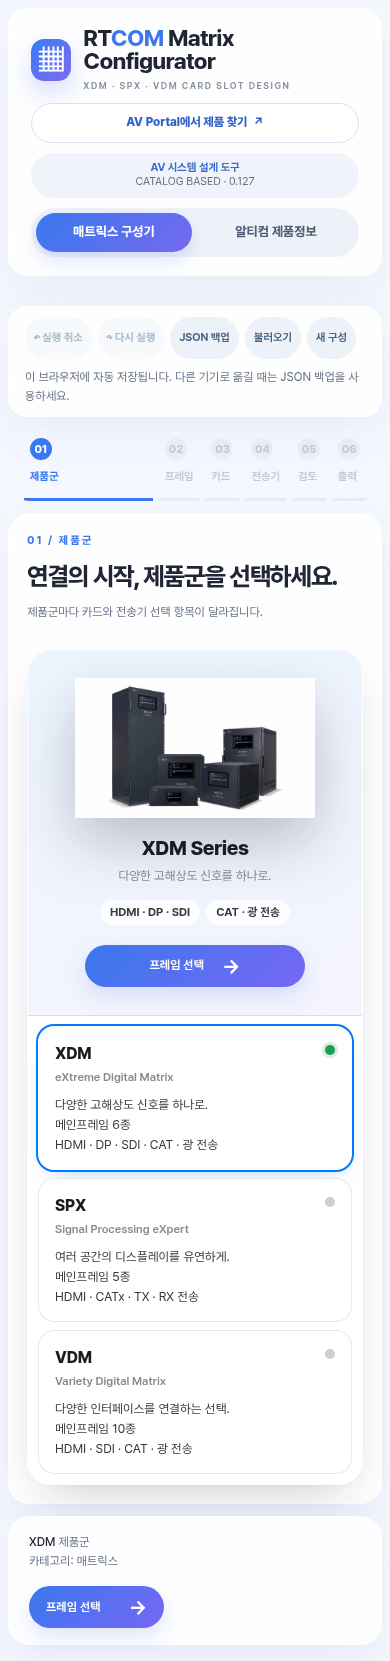
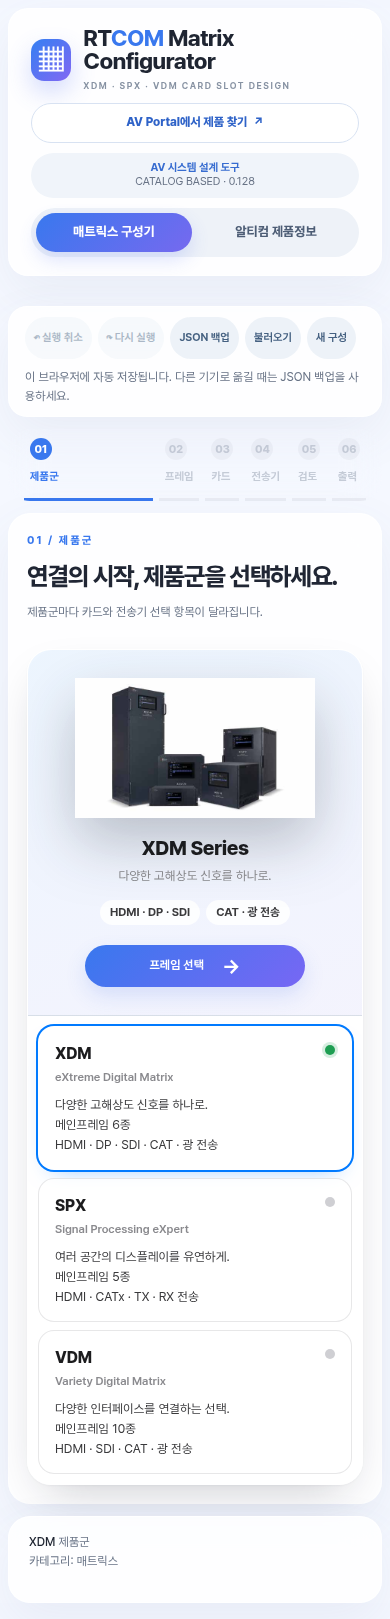
0.128.0: 01 제품군 프레임 선택 버튼 중복 제거
- 01 제품군에서만 아래 바 다음 버튼을 숨겨 미리보기 버튼 하나만 남김
- hidden 속성이 display:flex에 밀리지 않도록 규칙 추가
- e2e: 01 아래 바 버튼을 누르던 11곳을 미리보기 버튼으로 변경, 단일 버튼·02 화살표 색 검사

Claude-Session: https://claude.ai/code/session_01X4dTwEvCxXWf4rzmBjcGDt

diff --git a/index.html b/index.html
@@ -1,7 +1,7 @@
 <!doctype html>
 <html lang="ko"><head><meta charset="utf-8"><meta name="viewport" content="width=device-width,initial-scale=1"><title>RTCOM 매트릭스 구성기</title><meta name="description" content="RTCOM XDM, SPX, VDM 매트릭스 카드 슬롯 구성기와 알티컴 공개 제품정보"></head><body><div id="rtcom-design" aria-label="RTCOM 매트릭스 구성기">
   <link rel="stylesheet" href="src/styles.css">
-  <header class="rt-top"><a class="rt-brand-lockup" href="./"><span class="rt-brand-mark" aria-hidden="true">▦</span><span><span class="rt-brand">RT<span>COM</span> Matrix Configurator</span><span class="rt-brand-sub">XDM · SPX · VDM CARD SLOT DESIGN</span></span></a><nav class="rt-view-tabs" aria-label="화면 전환"><a data-view-tab="configurator" href="#matrix-configurator" aria-current="page">매트릭스 구성기</a><a data-view-tab="products" href="#products">알티컴 제품정보</a></nav><div class="rt-top-links"><a class="rt-portal-link" href="https://seoulav.github.io/AV-Portal/" target="_blank" rel="noopener">AV Portal에서 제품 찾기 <span aria-hidden="true">↗</span><span class="rt-visually-hidden">(새 창)</span></a><div class="rt-meta"><b>AV 시스템 설계 도구</b><br>CATALOG BASED · 0.127</div></div></header>
+  <header class="rt-top"><a class="rt-brand-lockup" href="./"><span class="rt-brand-mark" aria-hidden="true">▦</span><span><span class="rt-brand">RT<span>COM</span> Matrix Configurator</span><span class="rt-brand-sub">XDM · SPX · VDM CARD SLOT DESIGN</span></span></a><nav class="rt-view-tabs" aria-label="화면 전환"><a data-view-tab="configurator" href="#matrix-configurator" aria-current="page">매트릭스 구성기</a><a data-view-tab="products" href="#products">알티컴 제품정보</a></nav><div class="rt-top-links"><a class="rt-portal-link" href="https://seoulav.github.io/AV-Portal/" target="_blank" rel="noopener">AV Portal에서 제품 찾기 <span aria-hidden="true">↗</span><span class="rt-visually-hidden">(새 창)</span></a><div class="rt-meta"><b>AV 시스템 설계 도구</b><br>CATALOG BASED · 0.128</div></div></header>
   <section class="rt-configurator-view" aria-label="매트릭스 구성기">
     <div id="matrix-configurator" class="rt-configurator-anchor"><h1 class="rt-visually-hidden" tabindex="-1">매트릭스 구성기 — 프레임을 선택하고 실제 슬롯 위치에 입력·출력 카드를 장착해 구성합니다.</h1></div>
     <div class="rt-workspace"><div class="rt-tools"><button class="rt-button" data-tool="undo" disabled>↶ 실행 취소</button><button class="rt-button" data-tool="redo" disabled>↷ 다시 실행</button><button class="rt-button" data-tool="backup">JSON 백업</button><button class="rt-button" data-tool="import">불러오기</button><button class="rt-button" data-tool="reset">새 구성</button></div><p id="save-status" role="status" aria-live="polite">이 브라우저에 자동 저장됩니다.</p><input id="import-file" type="file" accept=".json,application/json" hidden></div><nav class="rt-nav" aria-label="구성 단계"></nav>

diff --git a/src/app.js b/src/app.js
@@ -376,6 +376,8 @@
       root.querySelector('.rt-summary').innerHTML=`<strong>${state.family}</strong>${state.model?' / '+state.model:' 제품군'}<br>${state.step>1?'카드 구성 검토 중':'카테고리: 매트릭스'}`;
       const next=root.querySelector('[data-action=next]');
       next.disabled=state.step===1&&!state.model;
+      // 0.128 01 제품군에서는 미리보기의 "프레임 선택" 버튼 하나만 둔다(사용자 지적 2026-09-29 "버튼이 중복이다"). 아래 바 다음 버튼은 02부터 나온다.
+      next.hidden=state.step===0;
       const nextLabels=['프레임 선택','카드 슬롯 구성','전송기 연결','구성 검토','출력 미리보기','처음으로'];
       // 03 카드 슬롯(2-3): 완성이면 "선택 완료 · 전송기 연결", 빈칸이 남으면 "빈칸 N개 남음 · 그래도 다음". 이동은 막지 않는다.
       let nextLabel=nextLabels[state.step];

diff --git a/src/styles.css b/src/styles.css
@@ -1058,3 +1058,6 @@ html{background:#f3f3ef}body{margin:0;padding:24px 16px;font-family:Arial,'Malgu
 /* 0.127 파란 "다음" 버튼(아래 바·미리보기)의 → 화살표: 예전에는 강조색(파랑)이라 파란 버튼 배경에 묻혀 보이지 않았다. 버튼 글자색(흰색)을 그대로 쓴다. */
 #rtcom-design .rt-button.rt-primary .rt-arrow{color:currentColor;font-size:20px;font-weight:700;line-height:1}
 #rtcom-design .rt-cg-preview .rt-cg-preview-next{display:inline-flex;gap:18px;justify-content:center}
+
+/* 0.128 hidden 속성이 있는 버튼은 display:flex 규칙(.rt-button.rt-primary)에 밀리지 않고 숨긴다. */
+#rtcom-design .rt-button[hidden]{display:none!important}

diff --git a/CLAUDE.md b/CLAUDE.md
@@ -50,7 +50,7 @@
 
 - 현재 화면 버전은 `index.html`의 우측 상단 표기와 `README.md`에 함께 기록합니다.
 - 원본 `main`에 기능 묶음을 병합할 때 마이너 버전을 올리고, 같은 커밋에서 `CHANGELOG.md`를 갱신합니다.
-- 구성기 단일 화면 전환은 `0.7.0`, Analog Way 방식 화면 개편은 `0.8.0`, 전송기 자동 연동은 `0.9.0`, HDMI 카드 PSE 쌍 연장은 `0.10.0`, SPX 매뉴얼 사진 슬롯은 `0.11.0`, VDM-256X 추가는 `0.12.0`, VDM 매뉴얼 후면 도면 슬롯은 `0.13.0`, 휴대폰 슬롯 겹침·뒤로가기 수정은 `0.14.0`, VDM 전면 도면은 `0.15.0`, 사진 슬롯 판넬 잘림 수정은 `0.16.0`, 장착 슬롯 번호표 숨김·구성 요약 카드 확대는 `0.17.0`, XDM 판넬 손나사 잘림 수정·VDM 전송기 연동·로고 홈 이동 확인은 `0.18.0`, 알티컴 공개 제품정보(29종) 재게시는 `0.19.0`, 제품정보 상세 표기를 에이앤미디어(antez.co.kr) 방식으로 정리한 것은 `0.20.0`, 데이터 기반 연결 다이어그램 추가는 `0.21.0`, 제품 사양 표를 구분·사양 2단으로 정리한 것은 `0.22.0`, 휴대폰 가로 스크롤(긴 출처 경로) 수정은 `0.23.0`, HD-14U·HD-18U 모델명 정정과 VDM CT102-U·FT102-U 계열 제외는 `0.24.0`, 제조사 카탈로그 원본 연결 다이어그램 적용은 `0.25.0`, 제품 사양 표 디자인(분류 색 점) 다듬기는 `0.26.0`, 새 카탈로그로 나머지 25종 재검증·XDM-CTR100 조합 다이어그램은 `0.27.0`, 연결 다이어그램 가로 스크롤 안내(그러데이션 표시)와 XDM-CTR100 케이블별 최대 전송거리(CI6522 80m) 추가는 `0.28.0`, VDM HOS4-U·HOS4S-UW 카드 설명을 스위칭 방식(일반·심리스)으로 정리하고 XDM-288을 구성기에서 삭제한 것은 `0.29.0`, XDM-CTR100 연결 다이어그램 조합 1을 매트릭스 카드 직결 배선으로 바로잡고 제조사 원본 다이어그램에 출처 캡션·표기 다름 경고를 추가하고 6개 제품과 SPX 다이어그램을 다시 잘라낸 것은 `0.30.0`, VDM 전송기 4종(CT101-U/CR101-U·CT103-U-H/CR103-U·FT101-U/FR101-U·FT103-U-H/FR103-U)에 RS-232 단자 행을 추가하고 이 4종과 CT104-U/CR104-U를 46쪽판과 재대조하고 27종 전체의 카탈로그 쪽 표기를 46쪽판 기준으로 통일한 것은 `0.31.0`, `docs/audit/PRODUCT_DIAGRAM_REVIEW_2026-09-27.md` §6 판단표대로 13개 제품의 검토 필요 항목을 정리해 REVIEW REQUIRED 배지를 없앤 것은 `0.32.0`, 제품정보 화면을 사용자 LED 구성기 계승 글래스 디자인으로 개편한 것(`docs/handoff/PRODUCT_GLASS_REDESIGN_SPEC.md` 6-A: 기반·HD-210U·XDM·VDM·SPX)은 `0.33.0`, 나머지 23종(분배기·일체형·전송기·케이블)에 lead·subtitle·portMap을 채우고 분배기·일체형 신호 흐름을 승인 시안 방식으로 바꾸고 QMS 화면 구성 모드(videoModes)를 추가한 것(6-B)은 `0.34.0`, HD-13U 상세에 전면 EDID 로터리 스위치 위치 표시와 EDID 코드표(edidSwitch, 사용자 제공 매뉴얼 근거)를 추가한 것은 `0.35.0`, HD-104U·HD-108U 모델명 표기를 0.24.0 정정 이전으로 되돌리고(사용자 확인 2026-09-27: 카탈로그 표기는 HD-104U·HD-108U이며 실크만 14U·18U로 변경 예정) HD-210U 전면 설정 스위치(딥 스위치·EDID 로터리) 추가와 신호 흐름 매트릭스 판정 복원을 함께 묶은 것은 `0.36.0`, 매트릭스 구성기 화면을 Analog Way 구조 + LED 글래스 스킨으로 개편하고 블랭크 커버(`placements`의 예약값 `"BLANK"`)로 슬롯 구성을 완성하는 기능을 추가한 것(`docs/handoff/CONFIGURATOR_AW_GLASS_SPEC.md`, 사용자 결정 2026-09-27)은 `0.37.0`, 0.37.0에서 시안과 다르게 남겨 둔 04 전송기 화면을 사용자 검토 후 좌우 분할 구조(01·02와 같은 틀)로 다시 지은 것(`docs/implementation/CONFIGURATOR_AW_GLASS.md` "04 전송기(편차 — 0.38.0에서 해소)")은 `0.38.0`, 제품 상세 "01 한눈에 보기" 위에 큰 사진 띠와 누르면 확대되는 돋보기(라이트박스)를 추가하고 화면에 보이는 제품 사양·주요 기능의 "up to" 표기를 "최대"로 통일하고 제품정보 "확인 사항" 118건을 2건으로 정리(HD-210U 크기 355mm 정정, `docs/audit/PRODUCT_ISSUES_ARCHIVE_2026-09-27.md`)한 것은 `0.39.0`, HD-13U "05 주요 기능"에 오디오 병합(믹스)·추출(디먹스) 동시 사용 안내(매뉴얼 7쪽 근거)를 추가한 것은 `0.40.0`, 분배기(HD-13U·HD-104U·HD-108U·HD-210U) EDID 로터리 코드표에서 자주 쓰는 1·7번을 강조하고 "02 신호 흐름"에 오디오 병합·추출(AUDIO OUT·"추출" 표시)을 추가한 것은 `0.41.0`, 사진 없이 입출력 표 카드로만 보이던 7종(HD-D102U·XDM-CTR100·전송기 5종)의 단자 지도를 HD-13U처럼 실제 제품 사진 기준으로 바꾸고 `portMap`이 송신기·수신기 사진 여러 장을 받게 한 것은 `0.42.0`, HDS-21U·HDS-42MU에 EDID 로터리(edidSwitch)를 추가하고 오디오 병합 설명을 "HDMI OUTPUT에 실리는 오디오" 기준으로 정정하고 분배기·선택기 필터를 HDMI 출력 개수 순으로 정렬하고 XDM-CTR100 "02 신호 흐름" 케이블 최대 전송거리 표기를 다이어그램 하단 한쪽으로 모은 것은 `0.43.0`, 분배기·선택기 필터 정렬을 분배기(Splitter)가 먼저 나오고 셀렉터(Switcher)가 나중에 나오도록(같은 종류 안에서는 HDMI 출력 개수 순) 바꾼 것은 `0.44.0`, 사용자 제공 매뉴얼 3권으로 벽부형 XDM-CT103·CT103-U-H/CR103-U·FT103-U-H/FR103-U의 단자 지도·사양·EDID 표를 보완하고 단자 지도에 세로 괄호·표시 폭·안내 줄을 추가한 것은 `0.45.0`, XDM-CTR100 PSE 제품 안내서와 XDM-CTR100 매뉴얼 Ver.1.4로 CTR100 단자 역할(HDMI IN·OUT, 5핀 오디오 출력, 상태 LED)·딥 스위치 설정·PSE 크기·전원을 보완한 것은 `0.46.0`, 옛 PR #22에만 있던 사용자 결정(XDM-CTR100과 XDM-CTR100 PSE를 별도 제품으로 분리해 28종, QMS-88UX 쿼드 뷰 출력 9·10번 사용법, 모델명 줄바꿈 방지)을 현재 main 기준으로 다시 옮기고 HD-13U 오디오 병합·추출을 선택 방식으로 정정해 07 오디오 설정 카드를 추가하고 모든 제품의 단자 지도 번호를 HDMI 입력 → 출력 → 오디오 → … → 전원(마지막) 순으로 통일한 것은 `0.47.0`, QMS-88UX 출력 9·10번 멀티뷰의 12가지 레이아웃·입력 그룹·출력 옵션을 사용자 제공 매뉴얼 20~23쪽 근거로 "주요 기능"에 적은 것은 `0.48.0`, HDS-21U·HDS-42MU 오디오 병합·추출을 딥 스위치 1번 선택 방식으로 정정하고 07 오디오 설정 카드를 추가하고 사용자 제공 매뉴얼 Ver.1.0으로 Priority·분배 기능 딥 스위치를 보완하고 제품 사진 팝업을 사용자 LED 계산기 "05 프로세서" 방식(사진 탭·원형 돋보기)으로 바꾼 것은 `0.49.0`, QMS-88UX "02 신호 흐름"에서 멀티뷰 출력 9·10번을 매트릭스 출력과 분리된 별도 갈래(패널·캡션)로 다시 그리고 "05 주요 기능" 멀티뷰 항목을 요약하고 오디오 출력 2개(QD1·QD2)가 선택 가능한 출력임을 반영한 것은 `0.50.0`, QMS-88UX "04 제품 사양"의 조건 칸(부설)을 모두 비우고 LAN(Telnet & Web Browser) 표기를 사양·기능·개요·단자 지도에서 모두 뺀 것은 `0.51.0`, HDS-42MU 크기를 사용자 결정에 따라 매뉴얼 값 232×65×30mm로 바꾸고 제품 상세의 "자료 출처·검토 기록"을 "제조사 자료"로 이름을 바꿔 화면의 출처 표시를 뺀 것은 `0.52.0`, QMS-88UX 오디오 QD1·QD2 설명 정리·"02 신호 흐름" 오디오 추출 점선과 멀티뷰 8입력분할 표현 정리·입출력 단자 표 정렬 통일(TX→구분 없음→RX, 영상→오디오→전송→제어, 입력→출력→양방향)·"제조사 자료"에서 표기 다름·참고 사항도 추가로 뺀 것과 조건 칸의 출처 문구를 지우고 "05 주요 기능"을 한 줄 요약으로 줄인 것(상세는 06·07 카드·사양·단자 지도로 이동)은 `0.53.0`, XDM-CTR100·CTR100 PSE "04 제품 사양"의 딥 스위치 행을 다시 삭제(딥 스위치는 05 주요 기능에서만 안내)하고 전 제품 "05 주요 기능"을 추가로 압축하고 매트릭스 COS/CIS/FIS/FOS 카드와 짝인 전송기 3종(XDM-CTR100·CTR100 PSE·FT101/FR101)에 RS-232+ 패스스루(AMX 등 통합 제어 신호를 매트릭스·전송기 너머로 전달) 안내를 추가하고 "02 신호 흐름"의 케이블 최대 전송거리 표기를 범례 "출력" 항목 오른쪽으로 옮긴 것은 `0.54.0`, 구성기 확인 창을 사이트 글래스 스타일 대화상자로 바꾸고 카드 팝업에 수량 채우기와 같은 방향 슬롯 이동(끌어 옮기기·팝업 이동)을 추가하고 XDM 세로 슬롯 카드를 180도 돌리고 2U 이상만 정면·후면 버튼(그보다 작으면 정면 사진과 포트 연결면을 함께 표시)으로 하고 구성기 작업 단계 표기를 한글로 바꾸고 Delete 키 카드 빼기와 XDM RS-232+(CIS·COS·FIS·FOS 카드와 짝 전송기) 표기를 더한 것은 `0.55.0`, 전 제품 "05 주요 기능" 카탈로그 어투 통일("~ 지원")·"01 한눈에 보기" 위 사진 띠 삭제·"02 신호 흐름"과 "03 단자 지도" 순서 교체 및 영문 표기(Signal Flow·Port Map)·화면 구성 모드 등 06 카드를 05 옆으로 배치·QMS-88UX 06 화면 구성 모드 레이아웃 12종 클릭 미리보기 추가·HDS-21U·HDS-42MU 단자 지도를 정면·후면 선택 버튼 없이 위아래 합성 사진 한 장(번호 1~7, EDID 로터리 6번·전원 7번)으로 바꾼 것은 `0.56.0`, 05 옆으로 옮긴 06 카드가 휴대폰에서 01보다 먼저 뜨던 순서 버그를 고치고(rt-pg-col-mobile-6 클래스 추가) 15개 제품 "05 주요 기능"의 "~할 수 있다." 표현 24곳을 명사형으로 정리한 것은 `0.57.0`, HDS-21U·HDS-42MU 단자 지도에 MODE 딥 스위치 번호(7번)를 추가하고 07 오디오 설정 카드를 딥 스위치 그림(번호별 OFF·ON) 카드인 07 딥 스위치 설정으로 바꾸고(1번 오디오 병합·추출, 2번 Priority, 42MU만 3번 분배) 04 제품 사양의 딥 스위치 행과 05 주요 기능의 긴 설명을 이 카드로 옮기고 매트릭스 제품(QMS-44UX·QMS-88UX·HDS-42MU) "03 Signal Flow"를 입력이 한 점으로 모이는 모양 대신 크로스포인트(출력마다 입력 선택 예시)로 다시 그리고 HDS-42MU 정면 사진의 잘못 인쇄된 실크(MODE·EDID)를 사진 안에서 서로 바꾼 것은 `0.58.0`, EDID 로터리 태그 잘림·06 EDID 카드 배치·긴 코드표 좌우 분할을 고치고 EDID 설정 카드에 기본값·자주 쓰는 코드를 파란 16단 로터리 그림(화살표가 코드를 가리킴)으로 보여주고 HDS-21U·HDS-42MU(3·9번)·FT103-U-H/FR103-U(3·6번)에 자주 쓰는 코드 강조를 더하고 EDID 코드표 세로 크기를 줄인 것은 `0.59.0`, 04 제품 사양 표 줄 간격을 약 15% 줄이고 03 Signal Flow에서 AUDIO OUT "추출" 표시가 잘리던 그림 너비 계산을 고친 것은 `0.60.0`, HD-13U 07 오디오 설정을 06 EDID 다음 전체 폭으로 옮겨 잘림·번호 뒤집힘을 고치고 EDID 대표 설정과 같은 칸 4개(MODE 로터리 0번 → SET 누름 → OUT 1 LED 깜빡임·깜빡이지 않음)를 넣고 HD-210U에 매뉴얼 Ver.1.2 근거 07 딥 스위치 설정 카드(1번 오디오 병합, 2번 DDC)를 추가한 것은 `0.61.0`, 딥 스위치 카드가 있는 HD-210U·HDS-21U·HDS-42MU의 05 주요 기능에서 스위치 번호 참조를 지우고 HD-210U(5줄)·HD-13U(3줄) 05 주요 기능을 기능 이름만 남겨 정리하고 HDS-21U·HDS-42MU 딥 스위치 칸을 ON → OFF 순서로 바꾼 것은 `0.62.0`, QMS-44UX·QMS-88UX "06 화면 구성 모드" 카드가 05 옆 좁은 칸에 들어가면서 모드 카드 설명·레이아웃 칩이 카드 밖으로 넘치던 문제를 edidSwitch와 같은 기준(항상 전체 폭 아래)으로 고친 것은 `0.63.0`, SPX-TX/RX 전송기를 29번째 제품으로 추가(매뉴얼 Ver.2.0: 사양·단자 지도·딥 스위치 조합)하고 XDM-FT101/FR101에 매뉴얼 Ver.1.3 근거 EDID·오디오 로터리 카드(전체 8칸 그림)를 넣고 SPX 안내·범례의 HDBaseT 표기를 CATx로 바로잡고 OBUX-1C에 매뉴얼 Ver.2.2 근거 Tx Mode 딥 스위치 카드(1번 오디오, 2·3·4번 EDID 조합)를 넣고 전 제품 05 주요 기능의 "~한다/~다." 문장을 "~ 지원"·명사형으로 통일한 것은 `0.64.0`, OBHD-2C에 매뉴얼 KV01 근거 06 EDID 설정(MODE 로터리 0~D 전체 14칸 그림·코드표)을 추가하고 XDM-CT103/CR103 04 제품 사양의 전원(어댑터) 중복 행(CT103·CR103 각각 있던 동일 값)을 공통 행 하나로 합친 것은 `0.65.0`, XDM-CTR100·XDM-CTR100 PSE에 매뉴얼 Ver.1.4 근거 06 딥 스위치 설정(1·2번 TX/RX 모드 조합, 3번 전송 거리)을 추가하고 두 제품이 별도 페이지로 나뉜 뒤에도 남아 있던 04 제품 사양의 "공통"·자기 모델명 반복 표기를 정리하고 04 사양 "지원 케이블"을 "권장 케이블"로 바꾸고 분배기 4종(HD-13U·HD-104U·HD-108U·HD-210U) 단자 지도를 앞면·뒷면 합성 사진 한 장으로 바꿔 정면 로터리(·SET·MODE)에도 번호를 붙인 것은 `0.66.0`, QMS-88UX 06 화면 구성 모드 QUAD 레이아웃 목록에 매뉴얼 22~23쪽 Output Option 2·3 근거로 "8분할(비율무시)"을 13번째 항목으로 추가하고 분배기 4종(HD-13U·HD-104U·HD-108U·HD-210U) 05 주요 기능에 다단 증폭(캐스케이드 연결) 최대 3단 지원을 추가한 것은 `0.67.0`, XDM-FT101/FR101 단자 지도에 정면 MODE 로터리·S/P 번호를 추가하고 HD-D102U 05 주요 기능을 명사형으로 전면 재작성하고 HDS-21U·HDS-42MU "Audio Extraction"과 HD-210U EDID "Nothing" 표기를 통일하고 HDS-21U 딥 스위치 3번(분배)이 매뉴얼에 없는 기능이었음을 사용자 제공 매뉴얼로 확인해 삭제한 것은 `0.68.0`, HDS-21U·HDS-42MU 06 EDID 설정 안내 문장에서 "10번=A, 11번=B"처럼 10진수를 다시 설명하던 괄호를 완전히 지운 것은 `0.69.0`, 구성기 "섀시"를 "프레임"으로 통일하고 카드 팝업에 수량·순서대로 장착 버튼을 넣고 02 프레임 선택에 "함께 보면 좋은 제품"을 추가하고 빈 슬롯 공패널색을 통일하고 OBHD-2C EDID 로터리 번호를 매뉴얼 Ver.2.1 기준으로 정정하고 HD-D102U "스마트 EDID" 문구를 알기 쉽게 풀어 쓰고 HD-13U·XDM-CTR100 PSE "인증: KC 인증" 행을 삭제하고 HD-D102U 04 사양표를 HD-13U와 같은 구성으로 정리한 것은 `0.70.0`, OBHD-2C 04 제품 사양의 크기·무게·HDMI 규격을 사용자 결정에 따라 매뉴얼 Ver.2.1 값(128×89×25mm·0.36kg·HDMI 1.3)으로 바꾼 것은 `0.71.0`, OBHD-2C·OBUX-1C 04 제품 사양의 입력단자·출력단자(HDMI(female) 등 표기) 행을 삭제하고 전 제품(16종)의 mm/kg 옆 인치·lbs 병기를 지운 것은 `0.72.0`, XDM-PSU 전원 장치를 반영해 BOM의 임시 "전원 공급 장비"를 XDM-PSU(16칸당 1대)·XDM-POH(CTR100 Tx 1대당 1개)·XDM-PHX(COS100 1장당 1개)로 나누고 XDM-PSU를 30번째 제품으로 추가하고, HDS-21U·OBUX-1C 송신기·수신기 고해상도 실물 사진을 반영하고, CT103-U-H/CR103-U 04 제품 사양을 요약 형태로 정리한 것은 `0.73.0`, QMS-44UX 전면·후면 사진을 사용자가 직접 촬영한 고화질 사진으로 바꾸고 03 단자 지도 좌표를 재보정하고 새 사진에서 확인된 DOWNLOAD(Mini-USB) 포트를 추가한 것은 `0.74.0`, HD-108U 전면·후면 사진을 제조사에서 입수한 고화질 사진으로 바꾸고 03 단자 지도와 06 EDID 설정 로터리 스위치 좌표를 재보정한 것은 `0.75.0`, HDS-42MU 전면·후면 사진을 고화질로 바꾸고 단자 지도·EDID 좌표를 재보정한 것은 `0.76.0`, HD-13U·SPX-M810 전면·후면 사진을 고해상도로 바꾸고 HD-13U 단자 지도·EDID 좌표와 SPX-M810 구성기 카드 슬롯 좌표를 재측정한 것은 `0.77.0`, 사용자가 제공한 HD-104U 고해상도 전면·후면 사진(긴 변 약 2000px)으로 기존 저해상도 이미지를 교체하고 단자 지도·EDID 로터리 스위치 좌표를 새 사진 기준으로 다시 측정한 것은 `0.78.0`, 제품 상세에 등록된 제조사 카탈로그·매뉴얼 PDF만 "제품 목록" 옆 버튼(새 탭 보기·내려받기)으로 보여 주는 구조를 추가한 것은 `0.79.0`, 매트릭스 카드 상세 정보 버튼과 XDM·SPX·VDM 카드 26종 사양을 등록한 것은 `0.80.0`, 로컬 작업 환경(`DEVICE_WORKFLOW.md`, `.gitattributes`, `.claude/settings.json`)과 `input_doc` 자료 자동 분류(`.claude/skills/input-doc`, `scripts/input_doc.py`)를 추가한 것은 `0.81.0`, 제조사 자료 입출력 단자 표에서 방향("입력"·"출력"·"입출력")·수량(숫자) 칸이 좁은 화면에서 줄바꿈되던 문제를 30개 제품 전수 조사로 찾아 고친 것은 `0.82.0`, 제목에 송신기·수신기가 들어간 제품 10종의 라벨을 색으로 구분한 것은 `0.83.0`, input_doc 첫 정리(매뉴얼 20권·사양서 1장)로 VDM HOS4-U 카드 사양을 등록하고 CIS4-U·COS4-U·QOS4S-U를 매뉴얼 KV07 값으로 보완하고 input_doc 반영 장부(`docs/evidence/input-doc-ledger.json`)와 파일별 반영 표시(`input_doc/STATUS.md`)를 추가하고 검증된 PR의 병합·배포를 Claude가 이어서 하도록 규칙을 바꾼 것은 `0.84.0`, 카탈로그·매뉴얼 충돌 정리(`docs/audit/CATALOG_MANUAL_CONFLICTS_2026-09-28.md`) 결정대로 VDM -U 카드에 매뉴얼 해상도 행·SOS4 오디오 포트를 더하고 QMS-88UX 멀티뷰에 8분할(16:9 비율)을 추가한 것은 `0.85.0`, 카탈로그·매뉴얼 충돌 항목을 사용자 결정("새로준 자료 기준으로")에 따라 매뉴얼 값으로 통일한 것(HD-104U 전원 1A, XDM 전송기 3840x2160, VDM 광 카드 10km·-U 카드 4096×2160·HOS4S-UW 1920×1080)은 `0.86.0`, RT컴 제공 고해상도 실물 사진으로 XDM-CTR100·XDM-FT101·XDM-FR101·XDM-CT103 제품 사진·목록 카드·구성기 04 전송기 썸네일을 교체하고 CTR100·FT101·CT103 단자 지도를 새 사진으로 다시 합성하고 XDM-FR101 수신기 뒷면 단자 지도를 추가한 것은 `0.87.0`, 사용자 결정("1번")으로 input_doc 매뉴얼 17개를 공개 폴더에 올려 16개 제품 상세에 매뉴얼 PDF 버튼을 켠 것은 `0.88.0`, 사용자 확인("ctr100과 pse는 단자는 동일해")에 따라 XDM-CTR100·XDM-CTR100 PSE 단자 지도를 같은 합성 사진(앞면 PSE 제품 안내서 사진 + 뒷면 RT컴 CTR100 사진)으로 바꾼 것은 `0.89.0`, QMS-88UX 06 화면 구성 모드의 DUAL 카드("듀얼 모드" 한 마디뿐)를 매뉴얼 KV.04 20~21쪽 근거로 출력 9·10번 멀티뷰 설정의 2분할(PBP)·PIP 레이아웃 3종으로 채운 것은 `0.90.0`, XDM-CTR100 PSE 정면 사진을 사용자가 재확인("1번 맞아"·"적용시켜줘")한 원본 PNG에서 정확한 픽셀 경계로 다시 잘라 646×396으로 다시 저장한 것은 `0.91.0`, SPX-TX/SPX-RX 단자 지도 사진의 검은 배경을 흰색으로 바꾸고(사용자 요청) 전송기 6개 제품 사양의 ft(피트) 표기를 일괄 삭제한 것은 `0.92.0`, 전송기 9종 04 제품 사양 조건 칸의 "모델A·모델B 공통" 표기 55곳을 일괄 삭제하고 XDM-PSU에 "03 Signal Flow"(POH 입력 경로·PHX 출력 경로, 주황 전원 선) 그림을 추가한 것은 `0.93.0`, XDM-CTR100·XDM-CTR100 PSE 04 제품 사양의 최대 전송거리 3행을 1행으로 합치고 권장 케이블 행을 지우고 PSE 목록 썸네일을 정면 사진으로 바꾼 것은 `0.94.0`, 전체 카탈로그 46쪽판을 공용 파일(`rtcom-catalog-2026.pdf`) 하나로 공개해 29개 제품 상세의 카탈로그 PDF 버튼이 제품 쪽(`#page=N`)에서 열리고 제품 목록에 전체 카탈로그 버튼을 둔 것(사용자 결정 2026-09-28 "전체 카탈로그 공개해도 돼")은 `0.95.0`, QMS-88UX 06 화면 구성 모드의 QUAD·DUAL 설명 문장을 짧게 줄이고 매뉴얼 쪽 번호를 화면에 안 보이는 `page` 항목으로 옮기고 QMS-44UX QUAD 설명도 두 줄로 나눠 줄인 것(사용자 요청 "QMS-44, 88 모두 글이 너무 많아 좀 더 요약해줘")은 `0.96.0`, 전체 카탈로그 46쪽판에서 제품마다 해당 쪽만 뽑은 제품별 카탈로그 PDF 29개(`<제품id>-catalog.pdf`, XDM은 전송기 쪽을 뺀 4~9쪽, SPX-TX/RX는 16쪽)를 만들어 제품 상세 카탈로그 버튼에 연결한 것(사용자 결정 2026-09-28 "제품별로 잘라 공개")은 `0.97.0`, XDM-PSU "03 Signal Flow"를 제조사 연결도처럼 매트릭스 프레임(CIS100·COS100)·XDM-PSU(POH·PHX)·XDM-CTR100 Tx/Rx 장비 그림으로 다시 그리고 케이블을 따라 신호·전원이 흐르는 애니메이션을 넣은 것(사용자 요청 2026-09-28)은 `0.98.0`, 그 그림의 XDM-COS100을 포트마다 RJ45+피닉스 5핀으로 고쳐 PHX 2핀 전원선이 1번 포트 피닉스 단자에 꽂히게 하고(사용자 확인 "COS PHNIX픽에 전원연결") XDM-PSU Signal Flow에만 "크게 보기" 확대 창(100~300%)을 넣은 것은 `0.99.0`, QMS-88UX "8분할(16:9 비율)" 미리보기가 매뉴얼(KV.04 23쪽)처럼 위·아래 여백을 짙은 막대로 보여주게 고친 것(사용자 지적 "8분할시 비율유지는 안되는거 같은")은 `0.100.0`, 구성기 카드 팝업 "카드별 수량" 스테퍼가 다 채운 뒤 사라지던 버그를 고친 것은 `0.101.0`, OBHD-2C 단자 지도 사진 3장의 검은 배경을 흰색으로 바꾼 것(사용자 요청 2026-09-28 "OBHD-2C 이미지 너가 블랙을 뺄수 있을까?")은 `0.102.0`, XDM-CTR100과 동등 사양인 XDM-CT103/CR103의 "권장 케이블"을 "CAT6a, CAT7"에서 "CAT6A S/FTP 이상(UTP 사용 불가)"으로 정정하고 XDM-CIS100·COS100 카드 소개 문구도 맞춘 것은 `0.103.0`, XDM-CTR100 PSE 크기 표기를 사용자 제공 스펙표 근거로 "107.4[127.4]×88×30.1mm"(본체[브래킷 포함])로 QMS-88UX와 같은 표기 관례로 바꾼 것은 `0.104.0`, XDM-PSU 머리 아이콘을 전원(번개) 모양으로 바꾸고 02 Port Map 앞면·뒷면을 03 Signal Flow와 같은 평면 그림(`scripts/tools/draw_xdm_psu_panels.cjs`, 제조사 도면 배치)으로 다시 만든 것(사용자 요청 2026-09-28)은 `0.105.0`, XDM-PSU 03 Signal Flow의 COS100 전원선 길이·배치를 조정하고 확대 창 범례 누락을 고친 것은 `0.106.0`, OBHD-2C 사진 3장에서 원본부터 깨져 있던 실크 글자(송신기 PWR의 R·EDID S/W의 D 두 개, 수신기 AUDIO의 D)를 같은 사진의 온전한 글자로 복원한 것은 `0.107.0`, HD-13U 제품 상세 카탈로그 PDF 버튼을 새 탭 대신 화면 안 팝업(iframe)으로 여는 샘플을 적용하고(사용자 요청 2026-09-28 "카달로그는 팝업형태 보이면 어때? 1장짜리라서 파일다운받아서 다시 열기 불편해", "샘플로 HD-13U만 적용해줘"), 카드 선택 팝업의 "순서대로 장착"·"닫기" 버튼을 "장착" 하나로 합치고 "다른 출력 슬롯으로 이동" 드롭다운을 없애고(사용자 요청 "내가 직접 드래그 이동이 가능하니까"), XDM-HOS100 "정사분할" 표기를 "최대 4분할"로 통일하고, XDM-CTR100·XDM-CTR100 PSE "최대 전송거리" 조건 문구를 "*S/FTP CAT6A 필수"로 단순화한 것은 `0.108.0`, QMS-88UX "03 Signal Flow" 멀티뷰 출력 9·10번 캡션을 "9·10번 각 4분할 · 합쳐서 최대 8입력"에서 "9·10번 각 4분할 또는 8분할"로 바로잡은 것(사용자 지적)은 `0.109.0`, XDM 연결 전송기 4종(XDM-CTR100·XDM-CTR100 PSE·XDM-CT103/CR103·XDM-FT101/FR101)의 04 제품 사양 최대 해상도 표기를 `4K60Hz`(4:4:4)로 통일하고 XDM-FT101/FR101의 4096x2160 표기를 개요·주요 기능·사양에서 모두 뺀 것(사용자 결정 2026-09-28 "4종 4K60(4:4:4) 형식으로 통일", "4096은 잘 사용하지 않아서 모든 양식에서 빼자")은 `0.110.0`, 실물 사진이 없는 VDM 프레임 전면 7종·후면 8종을 VDM-16X 실물 사진과 같은 검은 몸체의 평면 그림(`scripts/tools/draw_vdm_frames.cjs`, 매뉴얼 KV07 도면 배치)으로 바꾼 것은 `0.111.0`, HD-13U 카탈로그 팝업을 iframe 대신 저장소에 넣은 PDF.js(`src/vendor/pdfjs/`, Apache 2.0)로 그려 PDF 보기 기능이 없는 휴대폰·인앱 브라우저에서도 다운로드 없이 바로 보이게 한 것(사용자 결정 2026-09-28 "PDF.js로 HD-13U 적용해줘")은 `0.112.0`, 구성기 후면(03 카드 슬롯) XDM 6종(후면 사진이 없던 XDM-216 포함)·SPX 5종 프레임을 VDM과 같은 평면 그림(`scripts/tools/draw_xdm_spx_rear_frames.cjs`)으로 바꾼 것은 `0.113.0`, 02 프레임 선택 미리보기 캡션 아래에 "다음 · 카드 슬롯 구성" 버튼을 넣은 것은 `0.114.0`, 카드 선택 팝업 아래 줄의 "슬롯 비우기(Del)"를 왼쪽·"장착"을 오른쪽으로 바꾼 것은 `0.115.0`, 02 프레임 선택 미리보기에 정면·후면을 함께 보여 주고(위아래·좌우, 후면 세로/가로 비율 2 초과인 XDM-144·216, VDM-80X·128X·180X만 정면/후면 버튼) 휴대폰 미리보기 높이 제한을 없앤 것은 `0.116.0`, 03 카드 선택 팝업에서 카드마다 연동 전송기(칩)를 골라 장착과 함께 연결하게 한 것(02·04는 그대로)은 `0.117.0`, 카드 선택 팝업 연동 전송기에 카드 1장당 수량 조절기를 더해 연결 수량과 물량 산출서(BOM)에 반영한 것은 `0.118.0`, VDM-16X 후면(카드가 꽂힌 실물 사진)을 빈 슬롯 평면 그림으로 바꿔 후면 20종을 모두 그림으로 맞춘 것은 `0.119.0`, VDM 카드 사진(HOS4S-UW·CIS4-U·COS4-U)과 VDM 프레임 그림 슬롯 칸을 모두 5.7:1로 맞춰 카드가 칸에 정확히 들어가게 한 것은 `0.120.0`, HD-D102U를 최대 12대 장착하는 19인치 랙 프레임 "HD-D102U Rack마운트"를 사용자 제공 도면으로 31번째 제품(정면·윗면·옆면 그림, HD-D102U와 서로 관련 제품)으로 추가한 것은 `0.121.0`, 그 제품 상세에 사용자 제공 도면 한 장(윗면·정면·옆면·치수)을 다시 그린 "06 도면" 카드(`drawing` 항목)를 추가한 것은 `0.122.0`, 사용자 요청("실도면은하지말고 그래픽이미지만")으로 그 도면 카드와 치수 그림을 지우고 그래픽 이미지(정면·윗면·옆면)만 남긴 것은 `0.123.0`, 제품별 카탈로그 29종은 미리 그린 쪽 그림 팝업, 매뉴얼 17종은 보이는 쪽만 그리는 PDF.js 팝업으로 넓힌 것(사용자 결정 2026-09-28 "전체 제품으로 넓혀서 올리기")은 `0.124.0`, 제품정보 목록에서 매트릭스 시리즈를 XDM → SPX → VDM 순서로 바꿔 XDM이 맨 앞에 나오게 한 것(사용자 요청 "제품정보 XDM이 처음으로 나오게해")은 `0.125.0`, PC 문서 팝업(카탈로그·매뉴얼) 기본 폭을 720px에서 1040px로 넓히고 좌우 가장자리를 마우스로 끌어 폭을 바꾸고(이 브라우저에 기억, 두 번 누르면 기본 폭) "넓게" 버튼으로 화면 폭까지 펼치며 폭이 바뀌면 쪽을 다시 맞추게 한 것(사용자 요청 2026-09-28 "팝업창의 가로폭이 너무 좁아", "마우스로 창 크기 가변가능할까?")은 `0.126.0`, 01 제품군 미리보기 태그 줄 아래에 "프레임 선택" 버튼을 넣고(02 프레임 선택과 같은 방식) 파란 "다음" 버튼의 → 화살표가 파란 배경에 묻히던 색을 버튼 글자색(흰색)으로 고친 것(사용자 요청 2026-09-28 "이것도 버튼 위로 배치하고 오른쪽 화살표도 보이게")은 `0.127.0`으로 기록했습니다. 다음 기능 묶음은 `0.128.0`을 목표로 하며, 실제 병합 전에는 검증된 canonical main commit을 확인합니다.
+- 구성기 단일 화면 전환은 `0.7.0`, Analog Way 방식 화면 개편은 `0.8.0`, 전송기 자동 연동은 `0.9.0`, HDMI 카드 PSE 쌍 연장은 `0.10.0`, SPX 매뉴얼 사진 슬롯은 `0.11.0`, VDM-256X 추가는 `0.12.0`, VDM 매뉴얼 후면 도면 슬롯은 `0.13.0`, 휴대폰 슬롯 겹침·뒤로가기 수정은 `0.14.0`, VDM 전면 도면은 `0.15.0`, 사진 슬롯 판넬 잘림 수정은 `0.16.0`, 장착 슬롯 번호표 숨김·구성 요약 카드 확대는 `0.17.0`, XDM 판넬 손나사 잘림 수정·VDM 전송기 연동·로고 홈 이동 확인은 `0.18.0`, 알티컴 공개 제품정보(29종) 재게시는 `0.19.0`, 제품정보 상세 표기를 에이앤미디어(antez.co.kr) 방식으로 정리한 것은 `0.20.0`, 데이터 기반 연결 다이어그램 추가는 `0.21.0`, 제품 사양 표를 구분·사양 2단으로 정리한 것은 `0.22.0`, 휴대폰 가로 스크롤(긴 출처 경로) 수정은 `0.23.0`, HD-14U·HD-18U 모델명 정정과 VDM CT102-U·FT102-U 계열 제외는 `0.24.0`, 제조사 카탈로그 원본 연결 다이어그램 적용은 `0.25.0`, 제품 사양 표 디자인(분류 색 점) 다듬기는 `0.26.0`, 새 카탈로그로 나머지 25종 재검증·XDM-CTR100 조합 다이어그램은 `0.27.0`, 연결 다이어그램 가로 스크롤 안내(그러데이션 표시)와 XDM-CTR100 케이블별 최대 전송거리(CI6522 80m) 추가는 `0.28.0`, VDM HOS4-U·HOS4S-UW 카드 설명을 스위칭 방식(일반·심리스)으로 정리하고 XDM-288을 구성기에서 삭제한 것은 `0.29.0`, XDM-CTR100 연결 다이어그램 조합 1을 매트릭스 카드 직결 배선으로 바로잡고 제조사 원본 다이어그램에 출처 캡션·표기 다름 경고를 추가하고 6개 제품과 SPX 다이어그램을 다시 잘라낸 것은 `0.30.0`, VDM 전송기 4종(CT101-U/CR101-U·CT103-U-H/CR103-U·FT101-U/FR101-U·FT103-U-H/FR103-U)에 RS-232 단자 행을 추가하고 이 4종과 CT104-U/CR104-U를 46쪽판과 재대조하고 27종 전체의 카탈로그 쪽 표기를 46쪽판 기준으로 통일한 것은 `0.31.0`, `docs/audit/PRODUCT_DIAGRAM_REVIEW_2026-09-27.md` §6 판단표대로 13개 제품의 검토 필요 항목을 정리해 REVIEW REQUIRED 배지를 없앤 것은 `0.32.0`, 제품정보 화면을 사용자 LED 구성기 계승 글래스 디자인으로 개편한 것(`docs/handoff/PRODUCT_GLASS_REDESIGN_SPEC.md` 6-A: 기반·HD-210U·XDM·VDM·SPX)은 `0.33.0`, 나머지 23종(분배기·일체형·전송기·케이블)에 lead·subtitle·portMap을 채우고 분배기·일체형 신호 흐름을 승인 시안 방식으로 바꾸고 QMS 화면 구성 모드(videoModes)를 추가한 것(6-B)은 `0.34.0`, HD-13U 상세에 전면 EDID 로터리 스위치 위치 표시와 EDID 코드표(edidSwitch, 사용자 제공 매뉴얼 근거)를 추가한 것은 `0.35.0`, HD-104U·HD-108U 모델명 표기를 0.24.0 정정 이전으로 되돌리고(사용자 확인 2026-09-27: 카탈로그 표기는 HD-104U·HD-108U이며 실크만 14U·18U로 변경 예정) HD-210U 전면 설정 스위치(딥 스위치·EDID 로터리) 추가와 신호 흐름 매트릭스 판정 복원을 함께 묶은 것은 `0.36.0`, 매트릭스 구성기 화면을 Analog Way 구조 + LED 글래스 스킨으로 개편하고 블랭크 커버(`placements`의 예약값 `"BLANK"`)로 슬롯 구성을 완성하는 기능을 추가한 것(`docs/handoff/CONFIGURATOR_AW_GLASS_SPEC.md`, 사용자 결정 2026-09-27)은 `0.37.0`, 0.37.0에서 시안과 다르게 남겨 둔 04 전송기 화면을 사용자 검토 후 좌우 분할 구조(01·02와 같은 틀)로 다시 지은 것(`docs/implementation/CONFIGURATOR_AW_GLASS.md` "04 전송기(편차 — 0.38.0에서 해소)")은 `0.38.0`, 제품 상세 "01 한눈에 보기" 위에 큰 사진 띠와 누르면 확대되는 돋보기(라이트박스)를 추가하고 화면에 보이는 제품 사양·주요 기능의 "up to" 표기를 "최대"로 통일하고 제품정보 "확인 사항" 118건을 2건으로 정리(HD-210U 크기 355mm 정정, `docs/audit/PRODUCT_ISSUES_ARCHIVE_2026-09-27.md`)한 것은 `0.39.0`, HD-13U "05 주요 기능"에 오디오 병합(믹스)·추출(디먹스) 동시 사용 안내(매뉴얼 7쪽 근거)를 추가한 것은 `0.40.0`, 분배기(HD-13U·HD-104U·HD-108U·HD-210U) EDID 로터리 코드표에서 자주 쓰는 1·7번을 강조하고 "02 신호 흐름"에 오디오 병합·추출(AUDIO OUT·"추출" 표시)을 추가한 것은 `0.41.0`, 사진 없이 입출력 표 카드로만 보이던 7종(HD-D102U·XDM-CTR100·전송기 5종)의 단자 지도를 HD-13U처럼 실제 제품 사진 기준으로 바꾸고 `portMap`이 송신기·수신기 사진 여러 장을 받게 한 것은 `0.42.0`, HDS-21U·HDS-42MU에 EDID 로터리(edidSwitch)를 추가하고 오디오 병합 설명을 "HDMI OUTPUT에 실리는 오디오" 기준으로 정정하고 분배기·선택기 필터를 HDMI 출력 개수 순으로 정렬하고 XDM-CTR100 "02 신호 흐름" 케이블 최대 전송거리 표기를 다이어그램 하단 한쪽으로 모은 것은 `0.43.0`, 분배기·선택기 필터 정렬을 분배기(Splitter)가 먼저 나오고 셀렉터(Switcher)가 나중에 나오도록(같은 종류 안에서는 HDMI 출력 개수 순) 바꾼 것은 `0.44.0`, 사용자 제공 매뉴얼 3권으로 벽부형 XDM-CT103·CT103-U-H/CR103-U·FT103-U-H/FR103-U의 단자 지도·사양·EDID 표를 보완하고 단자 지도에 세로 괄호·표시 폭·안내 줄을 추가한 것은 `0.45.0`, XDM-CTR100 PSE 제품 안내서와 XDM-CTR100 매뉴얼 Ver.1.4로 CTR100 단자 역할(HDMI IN·OUT, 5핀 오디오 출력, 상태 LED)·딥 스위치 설정·PSE 크기·전원을 보완한 것은 `0.46.0`, 옛 PR #22에만 있던 사용자 결정(XDM-CTR100과 XDM-CTR100 PSE를 별도 제품으로 분리해 28종, QMS-88UX 쿼드 뷰 출력 9·10번 사용법, 모델명 줄바꿈 방지)을 현재 main 기준으로 다시 옮기고 HD-13U 오디오 병합·추출을 선택 방식으로 정정해 07 오디오 설정 카드를 추가하고 모든 제품의 단자 지도 번호를 HDMI 입력 → 출력 → 오디오 → … → 전원(마지막) 순으로 통일한 것은 `0.47.0`, QMS-88UX 출력 9·10번 멀티뷰의 12가지 레이아웃·입력 그룹·출력 옵션을 사용자 제공 매뉴얼 20~23쪽 근거로 "주요 기능"에 적은 것은 `0.48.0`, HDS-21U·HDS-42MU 오디오 병합·추출을 딥 스위치 1번 선택 방식으로 정정하고 07 오디오 설정 카드를 추가하고 사용자 제공 매뉴얼 Ver.1.0으로 Priority·분배 기능 딥 스위치를 보완하고 제품 사진 팝업을 사용자 LED 계산기 "05 프로세서" 방식(사진 탭·원형 돋보기)으로 바꾼 것은 `0.49.0`, QMS-88UX "02 신호 흐름"에서 멀티뷰 출력 9·10번을 매트릭스 출력과 분리된 별도 갈래(패널·캡션)로 다시 그리고 "05 주요 기능" 멀티뷰 항목을 요약하고 오디오 출력 2개(QD1·QD2)가 선택 가능한 출력임을 반영한 것은 `0.50.0`, QMS-88UX "04 제품 사양"의 조건 칸(부설)을 모두 비우고 LAN(Telnet & Web Browser) 표기를 사양·기능·개요·단자 지도에서 모두 뺀 것은 `0.51.0`, HDS-42MU 크기를 사용자 결정에 따라 매뉴얼 값 232×65×30mm로 바꾸고 제품 상세의 "자료 출처·검토 기록"을 "제조사 자료"로 이름을 바꿔 화면의 출처 표시를 뺀 것은 `0.52.0`, QMS-88UX 오디오 QD1·QD2 설명 정리·"02 신호 흐름" 오디오 추출 점선과 멀티뷰 8입력분할 표현 정리·입출력 단자 표 정렬 통일(TX→구분 없음→RX, 영상→오디오→전송→제어, 입력→출력→양방향)·"제조사 자료"에서 표기 다름·참고 사항도 추가로 뺀 것과 조건 칸의 출처 문구를 지우고 "05 주요 기능"을 한 줄 요약으로 줄인 것(상세는 06·07 카드·사양·단자 지도로 이동)은 `0.53.0`, XDM-CTR100·CTR100 PSE "04 제품 사양"의 딥 스위치 행을 다시 삭제(딥 스위치는 05 주요 기능에서만 안내)하고 전 제품 "05 주요 기능"을 추가로 압축하고 매트릭스 COS/CIS/FIS/FOS 카드와 짝인 전송기 3종(XDM-CTR100·CTR100 PSE·FT101/FR101)에 RS-232+ 패스스루(AMX 등 통합 제어 신호를 매트릭스·전송기 너머로 전달) 안내를 추가하고 "02 신호 흐름"의 케이블 최대 전송거리 표기를 범례 "출력" 항목 오른쪽으로 옮긴 것은 `0.54.0`, 구성기 확인 창을 사이트 글래스 스타일 대화상자로 바꾸고 카드 팝업에 수량 채우기와 같은 방향 슬롯 이동(끌어 옮기기·팝업 이동)을 추가하고 XDM 세로 슬롯 카드를 180도 돌리고 2U 이상만 정면·후면 버튼(그보다 작으면 정면 사진과 포트 연결면을 함께 표시)으로 하고 구성기 작업 단계 표기를 한글로 바꾸고 Delete 키 카드 빼기와 XDM RS-232+(CIS·COS·FIS·FOS 카드와 짝 전송기) 표기를 더한 것은 `0.55.0`, 전 제품 "05 주요 기능" 카탈로그 어투 통일("~ 지원")·"01 한눈에 보기" 위 사진 띠 삭제·"02 신호 흐름"과 "03 단자 지도" 순서 교체 및 영문 표기(Signal Flow·Port Map)·화면 구성 모드 등 06 카드를 05 옆으로 배치·QMS-88UX 06 화면 구성 모드 레이아웃 12종 클릭 미리보기 추가·HDS-21U·HDS-42MU 단자 지도를 정면·후면 선택 버튼 없이 위아래 합성 사진 한 장(번호 1~7, EDID 로터리 6번·전원 7번)으로 바꾼 것은 `0.56.0`, 05 옆으로 옮긴 06 카드가 휴대폰에서 01보다 먼저 뜨던 순서 버그를 고치고(rt-pg-col-mobile-6 클래스 추가) 15개 제품 "05 주요 기능"의 "~할 수 있다." 표현 24곳을 명사형으로 정리한 것은 `0.57.0`, HDS-21U·HDS-42MU 단자 지도에 MODE 딥 스위치 번호(7번)를 추가하고 07 오디오 설정 카드를 딥 스위치 그림(번호별 OFF·ON) 카드인 07 딥 스위치 설정으로 바꾸고(1번 오디오 병합·추출, 2번 Priority, 42MU만 3번 분배) 04 제품 사양의 딥 스위치 행과 05 주요 기능의 긴 설명을 이 카드로 옮기고 매트릭스 제품(QMS-44UX·QMS-88UX·HDS-42MU) "03 Signal Flow"를 입력이 한 점으로 모이는 모양 대신 크로스포인트(출력마다 입력 선택 예시)로 다시 그리고 HDS-42MU 정면 사진의 잘못 인쇄된 실크(MODE·EDID)를 사진 안에서 서로 바꾼 것은 `0.58.0`, EDID 로터리 태그 잘림·06 EDID 카드 배치·긴 코드표 좌우 분할을 고치고 EDID 설정 카드에 기본값·자주 쓰는 코드를 파란 16단 로터리 그림(화살표가 코드를 가리킴)으로 보여주고 HDS-21U·HDS-42MU(3·9번)·FT103-U-H/FR103-U(3·6번)에 자주 쓰는 코드 강조를 더하고 EDID 코드표 세로 크기를 줄인 것은 `0.59.0`, 04 제품 사양 표 줄 간격을 약 15% 줄이고 03 Signal Flow에서 AUDIO OUT "추출" 표시가 잘리던 그림 너비 계산을 고친 것은 `0.60.0`, HD-13U 07 오디오 설정을 06 EDID 다음 전체 폭으로 옮겨 잘림·번호 뒤집힘을 고치고 EDID 대표 설정과 같은 칸 4개(MODE 로터리 0번 → SET 누름 → OUT 1 LED 깜빡임·깜빡이지 않음)를 넣고 HD-210U에 매뉴얼 Ver.1.2 근거 07 딥 스위치 설정 카드(1번 오디오 병합, 2번 DDC)를 추가한 것은 `0.61.0`, 딥 스위치 카드가 있는 HD-210U·HDS-21U·HDS-42MU의 05 주요 기능에서 스위치 번호 참조를 지우고 HD-210U(5줄)·HD-13U(3줄) 05 주요 기능을 기능 이름만 남겨 정리하고 HDS-21U·HDS-42MU 딥 스위치 칸을 ON → OFF 순서로 바꾼 것은 `0.62.0`, QMS-44UX·QMS-88UX "06 화면 구성 모드" 카드가 05 옆 좁은 칸에 들어가면서 모드 카드 설명·레이아웃 칩이 카드 밖으로 넘치던 문제를 edidSwitch와 같은 기준(항상 전체 폭 아래)으로 고친 것은 `0.63.0`, SPX-TX/RX 전송기를 29번째 제품으로 추가(매뉴얼 Ver.2.0: 사양·단자 지도·딥 스위치 조합)하고 XDM-FT101/FR101에 매뉴얼 Ver.1.3 근거 EDID·오디오 로터리 카드(전체 8칸 그림)를 넣고 SPX 안내·범례의 HDBaseT 표기를 CATx로 바로잡고 OBUX-1C에 매뉴얼 Ver.2.2 근거 Tx Mode 딥 스위치 카드(1번 오디오, 2·3·4번 EDID 조합)를 넣고 전 제품 05 주요 기능의 "~한다/~다." 문장을 "~ 지원"·명사형으로 통일한 것은 `0.64.0`, OBHD-2C에 매뉴얼 KV01 근거 06 EDID 설정(MODE 로터리 0~D 전체 14칸 그림·코드표)을 추가하고 XDM-CT103/CR103 04 제품 사양의 전원(어댑터) 중복 행(CT103·CR103 각각 있던 동일 값)을 공통 행 하나로 합친 것은 `0.65.0`, XDM-CTR100·XDM-CTR100 PSE에 매뉴얼 Ver.1.4 근거 06 딥 스위치 설정(1·2번 TX/RX 모드 조합, 3번 전송 거리)을 추가하고 두 제품이 별도 페이지로 나뉜 뒤에도 남아 있던 04 제품 사양의 "공통"·자기 모델명 반복 표기를 정리하고 04 사양 "지원 케이블"을 "권장 케이블"로 바꾸고 분배기 4종(HD-13U·HD-104U·HD-108U·HD-210U) 단자 지도를 앞면·뒷면 합성 사진 한 장으로 바꿔 정면 로터리(·SET·MODE)에도 번호를 붙인 것은 `0.66.0`, QMS-88UX 06 화면 구성 모드 QUAD 레이아웃 목록에 매뉴얼 22~23쪽 Output Option 2·3 근거로 "8분할(비율무시)"을 13번째 항목으로 추가하고 분배기 4종(HD-13U·HD-104U·HD-108U·HD-210U) 05 주요 기능에 다단 증폭(캐스케이드 연결) 최대 3단 지원을 추가한 것은 `0.67.0`, XDM-FT101/FR101 단자 지도에 정면 MODE 로터리·S/P 번호를 추가하고 HD-D102U 05 주요 기능을 명사형으로 전면 재작성하고 HDS-21U·HDS-42MU "Audio Extraction"과 HD-210U EDID "Nothing" 표기를 통일하고 HDS-21U 딥 스위치 3번(분배)이 매뉴얼에 없는 기능이었음을 사용자 제공 매뉴얼로 확인해 삭제한 것은 `0.68.0`, HDS-21U·HDS-42MU 06 EDID 설정 안내 문장에서 "10번=A, 11번=B"처럼 10진수를 다시 설명하던 괄호를 완전히 지운 것은 `0.69.0`, 구성기 "섀시"를 "프레임"으로 통일하고 카드 팝업에 수량·순서대로 장착 버튼을 넣고 02 프레임 선택에 "함께 보면 좋은 제품"을 추가하고 빈 슬롯 공패널색을 통일하고 OBHD-2C EDID 로터리 번호를 매뉴얼 Ver.2.1 기준으로 정정하고 HD-D102U "스마트 EDID" 문구를 알기 쉽게 풀어 쓰고 HD-13U·XDM-CTR100 PSE "인증: KC 인증" 행을 삭제하고 HD-D102U 04 사양표를 HD-13U와 같은 구성으로 정리한 것은 `0.70.0`, OBHD-2C 04 제품 사양의 크기·무게·HDMI 규격을 사용자 결정에 따라 매뉴얼 Ver.2.1 값(128×89×25mm·0.36kg·HDMI 1.3)으로 바꾼 것은 `0.71.0`, OBHD-2C·OBUX-1C 04 제품 사양의 입력단자·출력단자(HDMI(female) 등 표기) 행을 삭제하고 전 제품(16종)의 mm/kg 옆 인치·lbs 병기를 지운 것은 `0.72.0`, XDM-PSU 전원 장치를 반영해 BOM의 임시 "전원 공급 장비"를 XDM-PSU(16칸당 1대)·XDM-POH(CTR100 Tx 1대당 1개)·XDM-PHX(COS100 1장당 1개)로 나누고 XDM-PSU를 30번째 제품으로 추가하고, HDS-21U·OBUX-1C 송신기·수신기 고해상도 실물 사진을 반영하고, CT103-U-H/CR103-U 04 제품 사양을 요약 형태로 정리한 것은 `0.73.0`, QMS-44UX 전면·후면 사진을 사용자가 직접 촬영한 고화질 사진으로 바꾸고 03 단자 지도 좌표를 재보정하고 새 사진에서 확인된 DOWNLOAD(Mini-USB) 포트를 추가한 것은 `0.74.0`, HD-108U 전면·후면 사진을 제조사에서 입수한 고화질 사진으로 바꾸고 03 단자 지도와 06 EDID 설정 로터리 스위치 좌표를 재보정한 것은 `0.75.0`, HDS-42MU 전면·후면 사진을 고화질로 바꾸고 단자 지도·EDID 좌표를 재보정한 것은 `0.76.0`, HD-13U·SPX-M810 전면·후면 사진을 고해상도로 바꾸고 HD-13U 단자 지도·EDID 좌표와 SPX-M810 구성기 카드 슬롯 좌표를 재측정한 것은 `0.77.0`, 사용자가 제공한 HD-104U 고해상도 전면·후면 사진(긴 변 약 2000px)으로 기존 저해상도 이미지를 교체하고 단자 지도·EDID 로터리 스위치 좌표를 새 사진 기준으로 다시 측정한 것은 `0.78.0`, 제품 상세에 등록된 제조사 카탈로그·매뉴얼 PDF만 "제품 목록" 옆 버튼(새 탭 보기·내려받기)으로 보여 주는 구조를 추가한 것은 `0.79.0`, 매트릭스 카드 상세 정보 버튼과 XDM·SPX·VDM 카드 26종 사양을 등록한 것은 `0.80.0`, 로컬 작업 환경(`DEVICE_WORKFLOW.md`, `.gitattributes`, `.claude/settings.json`)과 `input_doc` 자료 자동 분류(`.claude/skills/input-doc`, `scripts/input_doc.py`)를 추가한 것은 `0.81.0`, 제조사 자료 입출력 단자 표에서 방향("입력"·"출력"·"입출력")·수량(숫자) 칸이 좁은 화면에서 줄바꿈되던 문제를 30개 제품 전수 조사로 찾아 고친 것은 `0.82.0`, 제목에 송신기·수신기가 들어간 제품 10종의 라벨을 색으로 구분한 것은 `0.83.0`, input_doc 첫 정리(매뉴얼 20권·사양서 1장)로 VDM HOS4-U 카드 사양을 등록하고 CIS4-U·COS4-U·QOS4S-U를 매뉴얼 KV07 값으로 보완하고 input_doc 반영 장부(`docs/evidence/input-doc-ledger.json`)와 파일별 반영 표시(`input_doc/STATUS.md`)를 추가하고 검증된 PR의 병합·배포를 Claude가 이어서 하도록 규칙을 바꾼 것은 `0.84.0`, 카탈로그·매뉴얼 충돌 정리(`docs/audit/CATALOG_MANUAL_CONFLICTS_2026-09-28.md`) 결정대로 VDM -U 카드에 매뉴얼 해상도 행·SOS4 오디오 포트를 더하고 QMS-88UX 멀티뷰에 8분할(16:9 비율)을 추가한 것은 `0.85.0`, 카탈로그·매뉴얼 충돌 항목을 사용자 결정("새로준 자료 기준으로")에 따라 매뉴얼 값으로 통일한 것(HD-104U 전원 1A, XDM 전송기 3840x2160, VDM 광 카드 10km·-U 카드 4096×2160·HOS4S-UW 1920×1080)은 `0.86.0`, RT컴 제공 고해상도 실물 사진으로 XDM-CTR100·XDM-FT101·XDM-FR101·XDM-CT103 제품 사진·목록 카드·구성기 04 전송기 썸네일을 교체하고 CTR100·FT101·CT103 단자 지도를 새 사진으로 다시 합성하고 XDM-FR101 수신기 뒷면 단자 지도를 추가한 것은 `0.87.0`, 사용자 결정("1번")으로 input_doc 매뉴얼 17개를 공개 폴더에 올려 16개 제품 상세에 매뉴얼 PDF 버튼을 켠 것은 `0.88.0`, 사용자 확인("ctr100과 pse는 단자는 동일해")에 따라 XDM-CTR100·XDM-CTR100 PSE 단자 지도를 같은 합성 사진(앞면 PSE 제품 안내서 사진 + 뒷면 RT컴 CTR100 사진)으로 바꾼 것은 `0.89.0`, QMS-88UX 06 화면 구성 모드의 DUAL 카드("듀얼 모드" 한 마디뿐)를 매뉴얼 KV.04 20~21쪽 근거로 출력 9·10번 멀티뷰 설정의 2분할(PBP)·PIP 레이아웃 3종으로 채운 것은 `0.90.0`, XDM-CTR100 PSE 정면 사진을 사용자가 재확인("1번 맞아"·"적용시켜줘")한 원본 PNG에서 정확한 픽셀 경계로 다시 잘라 646×396으로 다시 저장한 것은 `0.91.0`, SPX-TX/SPX-RX 단자 지도 사진의 검은 배경을 흰색으로 바꾸고(사용자 요청) 전송기 6개 제품 사양의 ft(피트) 표기를 일괄 삭제한 것은 `0.92.0`, 전송기 9종 04 제품 사양 조건 칸의 "모델A·모델B 공통" 표기 55곳을 일괄 삭제하고 XDM-PSU에 "03 Signal Flow"(POH 입력 경로·PHX 출력 경로, 주황 전원 선) 그림을 추가한 것은 `0.93.0`, XDM-CTR100·XDM-CTR100 PSE 04 제품 사양의 최대 전송거리 3행을 1행으로 합치고 권장 케이블 행을 지우고 PSE 목록 썸네일을 정면 사진으로 바꾼 것은 `0.94.0`, 전체 카탈로그 46쪽판을 공용 파일(`rtcom-catalog-2026.pdf`) 하나로 공개해 29개 제품 상세의 카탈로그 PDF 버튼이 제품 쪽(`#page=N`)에서 열리고 제품 목록에 전체 카탈로그 버튼을 둔 것(사용자 결정 2026-09-28 "전체 카탈로그 공개해도 돼")은 `0.95.0`, QMS-88UX 06 화면 구성 모드의 QUAD·DUAL 설명 문장을 짧게 줄이고 매뉴얼 쪽 번호를 화면에 안 보이는 `page` 항목으로 옮기고 QMS-44UX QUAD 설명도 두 줄로 나눠 줄인 것(사용자 요청 "QMS-44, 88 모두 글이 너무 많아 좀 더 요약해줘")은 `0.96.0`, 전체 카탈로그 46쪽판에서 제품마다 해당 쪽만 뽑은 제품별 카탈로그 PDF 29개(`<제품id>-catalog.pdf`, XDM은 전송기 쪽을 뺀 4~9쪽, SPX-TX/RX는 16쪽)를 만들어 제품 상세 카탈로그 버튼에 연결한 것(사용자 결정 2026-09-28 "제품별로 잘라 공개")은 `0.97.0`, XDM-PSU "03 Signal Flow"를 제조사 연결도처럼 매트릭스 프레임(CIS100·COS100)·XDM-PSU(POH·PHX)·XDM-CTR100 Tx/Rx 장비 그림으로 다시 그리고 케이블을 따라 신호·전원이 흐르는 애니메이션을 넣은 것(사용자 요청 2026-09-28)은 `0.98.0`, 그 그림의 XDM-COS100을 포트마다 RJ45+피닉스 5핀으로 고쳐 PHX 2핀 전원선이 1번 포트 피닉스 단자에 꽂히게 하고(사용자 확인 "COS PHNIX픽에 전원연결") XDM-PSU Signal Flow에만 "크게 보기" 확대 창(100~300%)을 넣은 것은 `0.99.0`, QMS-88UX "8분할(16:9 비율)" 미리보기가 매뉴얼(KV.04 23쪽)처럼 위·아래 여백을 짙은 막대로 보여주게 고친 것(사용자 지적 "8분할시 비율유지는 안되는거 같은")은 `0.100.0`, 구성기 카드 팝업 "카드별 수량" 스테퍼가 다 채운 뒤 사라지던 버그를 고친 것은 `0.101.0`, OBHD-2C 단자 지도 사진 3장의 검은 배경을 흰색으로 바꾼 것(사용자 요청 2026-09-28 "OBHD-2C 이미지 너가 블랙을 뺄수 있을까?")은 `0.102.0`, XDM-CTR100과 동등 사양인 XDM-CT103/CR103의 "권장 케이블"을 "CAT6a, CAT7"에서 "CAT6A S/FTP 이상(UTP 사용 불가)"으로 정정하고 XDM-CIS100·COS100 카드 소개 문구도 맞춘 것은 `0.103.0`, XDM-CTR100 PSE 크기 표기를 사용자 제공 스펙표 근거로 "107.4[127.4]×88×30.1mm"(본체[브래킷 포함])로 QMS-88UX와 같은 표기 관례로 바꾼 것은 `0.104.0`, XDM-PSU 머리 아이콘을 전원(번개) 모양으로 바꾸고 02 Port Map 앞면·뒷면을 03 Signal Flow와 같은 평면 그림(`scripts/tools/draw_xdm_psu_panels.cjs`, 제조사 도면 배치)으로 다시 만든 것(사용자 요청 2026-09-28)은 `0.105.0`, XDM-PSU 03 Signal Flow의 COS100 전원선 길이·배치를 조정하고 확대 창 범례 누락을 고친 것은 `0.106.0`, OBHD-2C 사진 3장에서 원본부터 깨져 있던 실크 글자(송신기 PWR의 R·EDID S/W의 D 두 개, 수신기 AUDIO의 D)를 같은 사진의 온전한 글자로 복원한 것은 `0.107.0`, HD-13U 제품 상세 카탈로그 PDF 버튼을 새 탭 대신 화면 안 팝업(iframe)으로 여는 샘플을 적용하고(사용자 요청 2026-09-28 "카달로그는 팝업형태 보이면 어때? 1장짜리라서 파일다운받아서 다시 열기 불편해", "샘플로 HD-13U만 적용해줘"), 카드 선택 팝업의 "순서대로 장착"·"닫기" 버튼을 "장착" 하나로 합치고 "다른 출력 슬롯으로 이동" 드롭다운을 없애고(사용자 요청 "내가 직접 드래그 이동이 가능하니까"), XDM-HOS100 "정사분할" 표기를 "최대 4분할"로 통일하고, XDM-CTR100·XDM-CTR100 PSE "최대 전송거리" 조건 문구를 "*S/FTP CAT6A 필수"로 단순화한 것은 `0.108.0`, QMS-88UX "03 Signal Flow" 멀티뷰 출력 9·10번 캡션을 "9·10번 각 4분할 · 합쳐서 최대 8입력"에서 "9·10번 각 4분할 또는 8분할"로 바로잡은 것(사용자 지적)은 `0.109.0`, XDM 연결 전송기 4종(XDM-CTR100·XDM-CTR100 PSE·XDM-CT103/CR103·XDM-FT101/FR101)의 04 제품 사양 최대 해상도 표기를 `4K60Hz`(4:4:4)로 통일하고 XDM-FT101/FR101의 4096x2160 표기를 개요·주요 기능·사양에서 모두 뺀 것(사용자 결정 2026-09-28 "4종 4K60(4:4:4) 형식으로 통일", "4096은 잘 사용하지 않아서 모든 양식에서 빼자")은 `0.110.0`, 실물 사진이 없는 VDM 프레임 전면 7종·후면 8종을 VDM-16X 실물 사진과 같은 검은 몸체의 평면 그림(`scripts/tools/draw_vdm_frames.cjs`, 매뉴얼 KV07 도면 배치)으로 바꾼 것은 `0.111.0`, HD-13U 카탈로그 팝업을 iframe 대신 저장소에 넣은 PDF.js(`src/vendor/pdfjs/`, Apache 2.0)로 그려 PDF 보기 기능이 없는 휴대폰·인앱 브라우저에서도 다운로드 없이 바로 보이게 한 것(사용자 결정 2026-09-28 "PDF.js로 HD-13U 적용해줘")은 `0.112.0`, 구성기 후면(03 카드 슬롯) XDM 6종(후면 사진이 없던 XDM-216 포함)·SPX 5종 프레임을 VDM과 같은 평면 그림(`scripts/tools/draw_xdm_spx_rear_frames.cjs`)으로 바꾼 것은 `0.113.0`, 02 프레임 선택 미리보기 캡션 아래에 "다음 · 카드 슬롯 구성" 버튼을 넣은 것은 `0.114.0`, 카드 선택 팝업 아래 줄의 "슬롯 비우기(Del)"를 왼쪽·"장착"을 오른쪽으로 바꾼 것은 `0.115.0`, 02 프레임 선택 미리보기에 정면·후면을 함께 보여 주고(위아래·좌우, 후면 세로/가로 비율 2 초과인 XDM-144·216, VDM-80X·128X·180X만 정면/후면 버튼) 휴대폰 미리보기 높이 제한을 없앤 것은 `0.116.0`, 03 카드 선택 팝업에서 카드마다 연동 전송기(칩)를 골라 장착과 함께 연결하게 한 것(02·04는 그대로)은 `0.117.0`, 카드 선택 팝업 연동 전송기에 카드 1장당 수량 조절기를 더해 연결 수량과 물량 산출서(BOM)에 반영한 것은 `0.118.0`, VDM-16X 후면(카드가 꽂힌 실물 사진)을 빈 슬롯 평면 그림으로 바꿔 후면 20종을 모두 그림으로 맞춘 것은 `0.119.0`, VDM 카드 사진(HOS4S-UW·CIS4-U·COS4-U)과 VDM 프레임 그림 슬롯 칸을 모두 5.7:1로 맞춰 카드가 칸에 정확히 들어가게 한 것은 `0.120.0`, HD-D102U를 최대 12대 장착하는 19인치 랙 프레임 "HD-D102U Rack마운트"를 사용자 제공 도면으로 31번째 제품(정면·윗면·옆면 그림, HD-D102U와 서로 관련 제품)으로 추가한 것은 `0.121.0`, 그 제품 상세에 사용자 제공 도면 한 장(윗면·정면·옆면·치수)을 다시 그린 "06 도면" 카드(`drawing` 항목)를 추가한 것은 `0.122.0`, 사용자 요청("실도면은하지말고 그래픽이미지만")으로 그 도면 카드와 치수 그림을 지우고 그래픽 이미지(정면·윗면·옆면)만 남긴 것은 `0.123.0`, 제품별 카탈로그 29종은 미리 그린 쪽 그림 팝업, 매뉴얼 17종은 보이는 쪽만 그리는 PDF.js 팝업으로 넓힌 것(사용자 결정 2026-09-28 "전체 제품으로 넓혀서 올리기")은 `0.124.0`, 제품정보 목록에서 매트릭스 시리즈를 XDM → SPX → VDM 순서로 바꿔 XDM이 맨 앞에 나오게 한 것(사용자 요청 "제품정보 XDM이 처음으로 나오게해")은 `0.125.0`, PC 문서 팝업(카탈로그·매뉴얼) 기본 폭을 720px에서 1040px로 넓히고 좌우 가장자리를 마우스로 끌어 폭을 바꾸고(이 브라우저에 기억, 두 번 누르면 기본 폭) "넓게" 버튼으로 화면 폭까지 펼치며 폭이 바뀌면 쪽을 다시 맞추게 한 것(사용자 요청 2026-09-28 "팝업창의 가로폭이 너무 좁아", "마우스로 창 크기 가변가능할까?")은 `0.126.0`, 01 제품군 미리보기 태그 줄 아래에 "프레임 선택" 버튼을 넣고(02 프레임 선택과 같은 방식) 파란 "다음" 버튼의 → 화살표가 파란 배경에 묻히던 색을 버튼 글자색(흰색)으로 고친 것(사용자 요청 2026-09-28 "이것도 버튼 위로 배치하고 오른쪽 화살표도 보이게")은 `0.127.0`, 01 제품군에서 미리보기 "프레임 선택" 버튼과 겹치던 아래 바의 같은 버튼을 숨겨 하나만 남긴 것(사용자 지적 2026-09-29 "버튼이 중복이다")은 `0.128.0`으로 기록했습니다. 다음 기능 묶음은 `0.129.0`을 목표로 하며, 실제 병합 전에는 검증된 canonical main commit을 확인합니다.
 - 모든 작업은 구현 문서, QA 문서 또는 감사 문서에 근거와 결과를 남깁니다.
 - 사용자에게 받을 자료·남은 할 일은 `docs/handoff/OPEN_ITEMS.md`에 모아 둡니다. 새 세션은 이 목록을 먼저 확인하고, 처리한 항목은 지웁니다.
 

diff --git a/CHANGELOG.md b/CHANGELOG.md
@@ -58,6 +58,11 @@
 
 - **0.90.0 배포 기록**: `docs/qa/DEPLOYMENT_0.90_2026-09-28.md`(PR #85 → main 병합, 배포 run 64, 공개 파일 242/242 일치, 비공개 파일 6개 404)
 
+## 0.128.0
+
+- **01 제품군 "프레임 선택" 버튼 중복 제거**(사용자 지적 2026-09-29 "버튼이 중복이다"): 0.127.0에서 미리보기에 "프레임 선택" 버튼을 넣으면서 아래 바의 같은 버튼을 그대로 두어 화면에 두 개가 보였습니다. "버튼 위로 배치"는 옮기라는 뜻이므로, 01 제품군에서만 아래 바의 다음 버튼을 숨기고 미리보기 버튼 하나만 남겼습니다(아래 바에는 선택 요약만 표시). 02 프레임 선택부터는 아래 바의 다음 버튼이 그대로 나옵니다. 숨김은 `hidden` 속성으로 하고, `.rt-button.rt-primary`의 `display:flex`에 밀리지 않도록 `.rt-button[hidden]{display:none!important}` 규칙을 더했습니다.
+- 검증: 단위 테스트 52/52(숨김 검사 추가), e2e 172/172(01에는 다음 버튼이 하나만 보이는지, 02 아래 바 화살표가 흰색인지 검사로 바꾸고, 01에서 아래 바 버튼을 누르던 자리 11곳을 미리보기 버튼으로 변경), 화면 `docs/qa/family-preview-next-screens/`.
+
 ## 0.127.0
 
 - **01 제품군 미리보기에 "프레임 선택" 버튼**(사용자 요청 2026-09-28 "이것도 버튼 위로 배치하고 오른쪽 화살표도 보이게", 02 프레임 선택의 "다음" 버튼과 같은 방식): 오른쪽 미리보기의 태그 줄(HDMI · DP · SDI 등) 아래 빈 자리에 "프레임 선택 →" 버튼을 넣었습니다. 제품군을 고른 뒤 화면 맨 아래 바까지 내려가지 않고 바로 02 프레임 선택으로 넘어갑니다. 아래 바의 버튼과 같은 동작이고 아래 바 버튼도 그대로 있습니다. 휴대폰 폭에서는 미리보기가 목록 위에 붙으므로 버튼도 위쪽에 보입니다.

diff --git a/docs/implementation/FAMILY_PREVIEW_NEXT.md b/docs/implementation/FAMILY_PREVIEW_NEXT.md
@@ -20,3 +20,11 @@
 ## 되돌리는 방법
 
 - 이 변경을 `git revert` 합니다. 데이터·저장 형식(`rtcom.configuration.v1`, JSON schema 3, `catalogVersion`)은 바뀌지 않았습니다.
+
+## 0.128.0 보완: 버튼 중복 제거 (사용자 지적 2026-09-29 "버튼이 중복이다")
+
+- 0.127.0은 미리보기에 버튼을 **추가**하고 아래 바 버튼을 남겨 "프레임 선택"이 화면에 두 개 보였습니다. "버튼 위로 배치"는 옮기라는 뜻이었습니다.
+- `src/app.js` `render()`: `next.hidden=state.step===0;`로 01 제품군에서만 아래 바 다음 버튼을 숨깁니다. 02 이후에는 그대로 나옵니다. 아래 바에는 선택 요약(`XDM 제품군 · 카테고리: 매트릭스`)만 남습니다.
+- `src/styles.css`: `.rt-button.rt-primary`가 `display:flex`라서 `hidden` 속성만으로는 숨겨지지 않아 `.rt-button[hidden]{display:none!important}`를 더했습니다.
+- `scripts/e2e-smoke.cjs`: 01에서 아래 바 다음 버튼을 누르던 11곳을 미리보기 버튼(`.rt-cg-preview [data-action="preview-next"]`)으로 바꾸고, 01에서 보이는 다음 버튼이 정확히 1개인지와 02 아래 바 화살표 색을 검사합니다.
+- 02 프레임 선택은 0.114부터 미리보기와 아래 바에 버튼이 함께 있습니다. 이번에는 요청 범위(01)만 바꾸었고, 같은 방식으로 정리할지는 사용자 결정 사항입니다.

diff --git a/README.md b/README.md
@@ -1,6 +1,6 @@
 # RTCOM Matrix Configurator
 
-**현재 버전: 0.127** · XDM·SPX·VDM 매트릭스의 프레임과 카드 슬롯을 구성하는 도구(Analog Way 구조 + LED 글래스 스킨 + 블랭크 커버, 04 전송기도 좌우 분할)와 알티컴 공개 제품정보(31종, 글래스 디자인·연결 다이어그램)를 제공합니다.
+**현재 버전: 0.128** · XDM·SPX·VDM 매트릭스의 프레임과 카드 슬롯을 구성하는 도구(Analog Way 구조 + LED 글래스 스킨 + 블랭크 커버, 04 전송기도 좌우 분할)와 알티컴 공개 제품정보(31종, 글래스 디자인·연결 다이어그램)를 제공합니다.
 
 프레임을 고르고 실제 슬롯 위치에 입력·출력 카드를 장착한 뒤, 전송기와 BOM을 검토하고 JSON·CSV·인쇄 보고서로 내보냅니다. 0.19부터 알티컴 브로셔 수준 제품정보의 원본은 이 저장소(`data/products/`)이며, 머리글의 "알티컴 제품정보" 탭에서 봅니다. 비공개 AV Portal은 이 공개 데이터를 읽기만 합니다([인계 문서](docs/handoff/AV_PORTAL_RTCOM_PRODUCT_DATA.md)). 실제 슬롯·설치 허용표와 전원·케이블 조건은 확정 전이며, 모든 내보내기는 `UNVERIFIED_DRAFT`로 표시합니다.
 
